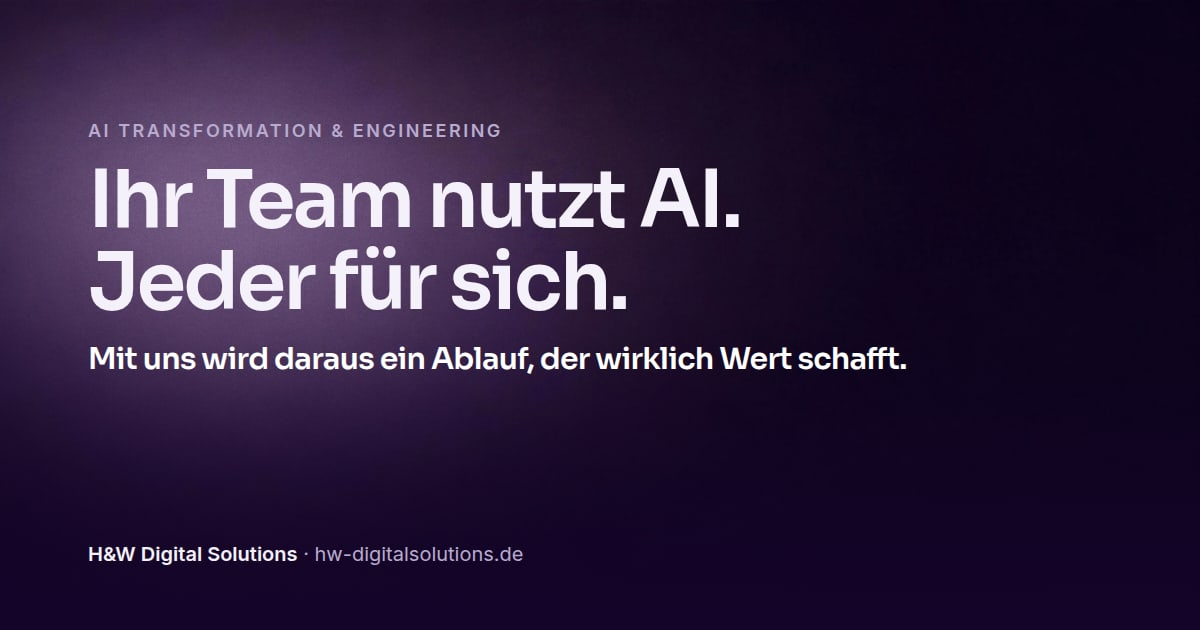
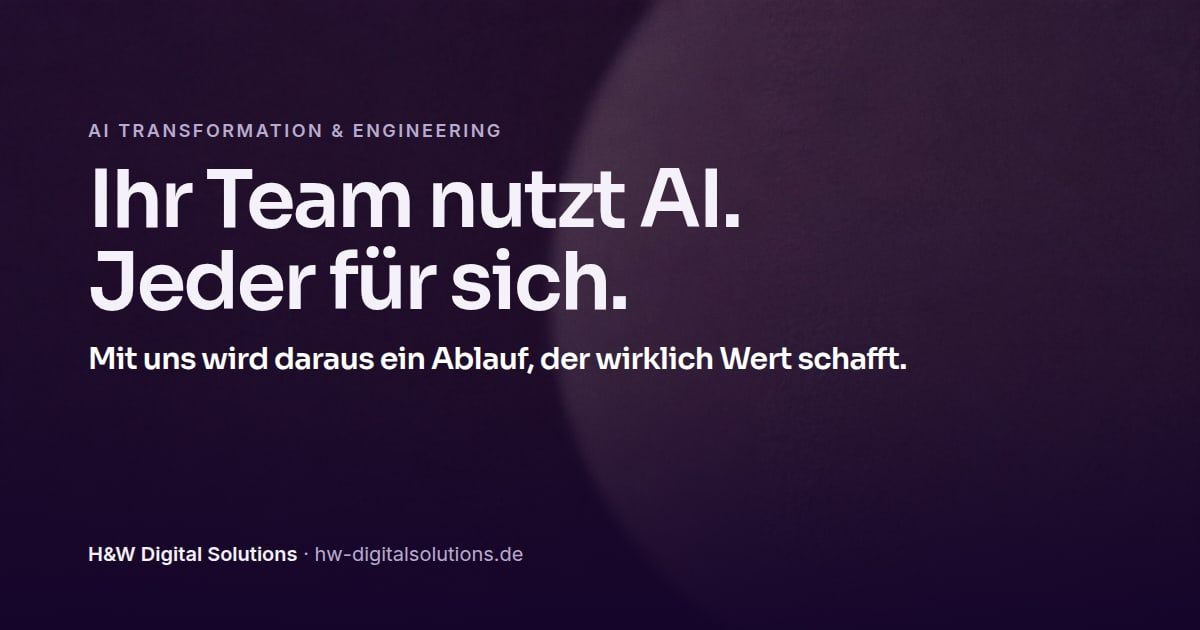
Hero background: soft disc on the right instead of the light pool
Founder asked to check whether the pool version reads optimally and
to try a highly professional, minimal but varied approach. Three
concepts were rendered and compared in the layout: even top light,
one large soft-edged disc on the right, and two overlapping paper
planes. The disc wins: it gives the empty right half a form while the
copy sits on the calm dark side; the top light flattened the headline
contrast and the paper edge cut through the copy. 4K upscale with
grain, OG image re-rendered, docs updated with the rejected options.

Claude-Session: https://claude.ai/code/session_01WNik2r3KY3SBBWXV1w1yzj

diff --git a/hw-site/DESIGN.md b/hw-site/DESIGN.md
@@ -154,7 +154,7 @@ Alle Kontrastwerte wurden am 2026-09-17 mit einem kleinen Node-Skript nach WCAG 
 
 ### Hero
 - Statisch (seit 2026-09-18, Gründer: kein Hintergrund-Scroll): Vollhöhe (`100svh`, Raster `1fr auto`), Bild als Fläche hinter Copy und Nachlauf, `object-fit: cover`, `object-position: 30% 42%`, kaum gedämpft (`saturate(.92) brightness(1)`). Kein Pan, keine Skalierung, keine Fortschrittslinie, kein Farbwash.
-- Bild (`src/assets/hero.webp`, 2560 × 1440, generiert mit Higgsfield, Modell GPT Image 2.5 in hoher Qualität, 4K-Upscale, Referenz: Gründer-Video vom 2026-09-18): ein abstrakter, analog wirkender Lichtverlauf mit feinem Filmkorn. Seit dem Fokus-Experiment (2026-09-18, Gründer: „Experiment mit Background und improved focus“) ein einzelner, breiter Lichtpool in mattem Flieder im linken Drittel, leicht über der Mitte, genau hinter der Headline; von dort fällt das Licht weich in alle Richtungen in `--ink` ab, die rechte Hälfte bleibt ruhig und dunkel, Unterkante und obere Ecken dunkel. Keine Objekte, keine Linien, kein Bokeh, keine Leuchtflecken. Das Bild führt den Blick über Licht auf die Copy und bringt die Vignette selbst mit.
+- Bild (`src/assets/hero.webp`, 2560 × 1440, generiert mit Higgsfield, Modell GPT Image 2.5 in hoher Qualität, 4K-Upscale, Referenz: Gründer-Video vom 2026-09-18): ein abstrakter, analog wirkender Lichtverlauf mit feinem Filmkorn. Seit der zweiten Runde (2026-09-18, Gründer: „hochprofessionell, minimalistisch, aber varied“) ein ruhiges Feld in `--ink`, in der rechten Hälfte eine einzige sehr große, weich gerandete Scheibe in staubigem Mauve, völlig unscharf, deren Kante von rechts oben nach unten zur Mitte läuft; die linke Hälfte bleibt gleichmäßig und leicht aufgehellt, damit die Copy dort trägt. Keine zweite Form, keine Linien, kein Bokeh, keine Leuchtflecken. Das Bild gibt der leeren rechten Hälfte eine Form und lässt die Copy auf der ruhigen Seite. Verworfen in dieser Runde: gleichmäßiges Oberlicht (flach, nimmt der Headline Kontrast), zwei überlagerte Papierflächen (die Kante läuft durch die Copy). Der Lichtpool aus Runde eins bleibt als Alternative dokumentiert (`.agents/product-marketing.md`).
 - Schleier: nur noch drei leichte Verläufe – nach unten in `--ink` (100 % ab Unterkante, 55 % bei 16 %, 0 ab 40 %) für den nahtlosen Übergang zur Trust-Leiste, ein Hauch von links (14 % → 0 bei 40 %) und ein Hauch von oben (30 % → 0 bei 20 %). Keine radiale Vignette mehr, keine Leuchtflecken, kein Glow.
 - Copy: vertikal in der Bildfläche zentriert, bündig mit der Container-Kante, `max-width: 760px` je Kind. Eyebrow → `h1` (`--fg-on-ink`) → Claim → Beschreibung (`--fg-on-ink-muted`) → Buttons. Einblendung über `.reveal` mit gestaffeltem `--delay`.
 - Nachlauf (Slot `after`): Trust-Leiste mit den Partnern (einfarbige Masken, `--logo-h: 32px`) auf dem in `--ink` ausgelaufenen Bildrand; Elemente blenden über `--start` gestaffelt ein. Zertifikate stehen nicht im Hero, sondern in der Proof-Szene „Wer bei uns baut“ darunter.
@@ -214,6 +214,7 @@ Alle Kontrastwerte wurden am 2026-09-17 mit einem kleinen Node-Skript nach WCAG 
 
 | Datum | Änderung |
 |---|---|
+| 2026-09-18 | Hero-Hintergrund, zweite Runde: große weiche Scheibe rechts statt Lichtpool links (Gründer: „hochprofessionell, minimalistisch, aber varied“); drei Konzepte im Layout verglichen (Oberlicht, Bogen, Papierflächen). |
 | 2026-09-18 | Zertifikate als eigene Leiste (`CertStrip.astro`) direkt unter der Proof-Szene: Badges 72 px, nahtlos laufend wie die Partner-Leiste (zwei Listen, 40 s, Pause bei Hover, statisch bei Reduced Motion), Kanten per `mask-image` ausgeblendet, rechts „Alle Nachweise“. Kein Zähler, kein Label. Proof-Szene ohne Zertifikatszeile und ohne Bildunterschrift; die Headline lautet jetzt „Für Ihren Betrieb geplant und gebaut.“ |
 | 2026-09-18 | Hero-Fokus-Experiment: neues Hintergrundbild mit einem Lichtpool links hinter der Headline (statt Verlauf von links oben), rechte Hälfte ruhig und dunkel; vier Kandidaten (zwei Pool, zwei Lichtband) im Layout verglichen. Filter auf `saturate(.92) brightness(1)`, Schleier von links auf 14 % und von oben auf 30 % reduziert, `object-position` 30 % 42 %. |
 | 2026-09-18 | Stepper größer und cleaner: Knoten 40 px, Labels unter den Knoten, Linie 1,5 px nur zwischen den Knoten (läuft nicht mehr durch Text), Pfeile an der Knotenzeile ausgerichtet. Proof-Szene: Zähler „8 Zertifikate im Gründerteam“ entfernt; Badges 52 px in einer Reihe, die rechts ausblendet (`mask-image`), daneben „Alle Nachweise“. Es soll sichtbar sein, dass die Reihe weitergeht. |

diff --git a/hw-site/.agents/product-marketing.md b/hw-site/.agents/product-marketing.md
@@ -434,6 +434,7 @@ Konkrete Szenarien dürfen genutzt werden, wenn sie als Beispiel gekennzeichnet 
 ## Changelog
 *Newest first. One line per revision: what changed and why.*
 - v47 (2026-09-18) — Proof-Szene: Headline „Für Ihren Betrieb geplant und gebaut.“ (Gründer; vorher Bildunterschrift), Text unverändert; Zertifikate als eigene, größere Leiste darunter mit „Alle Nachweise“, ohne Zähler.
+- v48 (2026-09-18) — Hero-Hintergrund, zweite Runde (Gründer: „schaue, ob das visuell optimal wirkt; hochprofessionell, minimalistisch, aber varied“): der Lichtpool las sich leicht wie ein Spot. Neu: eine große, weiche Scheibe rechts auf ruhigem Aubergine, Copy links auf der dunklen Seite. Verglichen: Oberlicht (flach), Bogen (gewählt), Papierflächen (Kante durch die Copy). Der Pool liegt als Datei im Scratch-Verlauf und als Beschreibung hier, falls die Gründer zurückwollen.
 - v46 (2026-09-18) — Hero-Hintergrund, Fokus-Experiment (Gründer: „die Richtung ist schon excellent“): Lichtpool links hinter der Headline, rechts ruhig und dunkel; Schleier gelockert, damit der Pool trägt. Vier Kandidaten verglichen, Pool-Variante gewählt.
 - v45 (2026-09-18) — Hero-Claim optimiert (Gründer: „bitte hier noch optimieren“): „Mit uns wird daraus ein Ablauf, der wirklich Wert schafft.“ Alternativen: „Wir machen daraus einen Ablauf, der wirklich Wert schafft.“, „Mit uns wird daraus endlich ein Ablauf, der Wert schafft.“
 - v44 (2026-09-18) — Hero-Claim im Gründer-Wortlaut: „Mit uns erreichen Sie endlich einen Ablauf, der wirklich Wert schafft.“ (Original mit Gedankenstrich, auf der Site als Komma); Beschreibung gekürzt: „Mit den richtigen Quellen, Regeln und Anbindungen. Wir begleiten Sie, bis es läuft, und Sie holen sich Ihre Souveränität zurück, ohne bei jedem Schritt auf Dienstleister angewiesen zu sein.“
